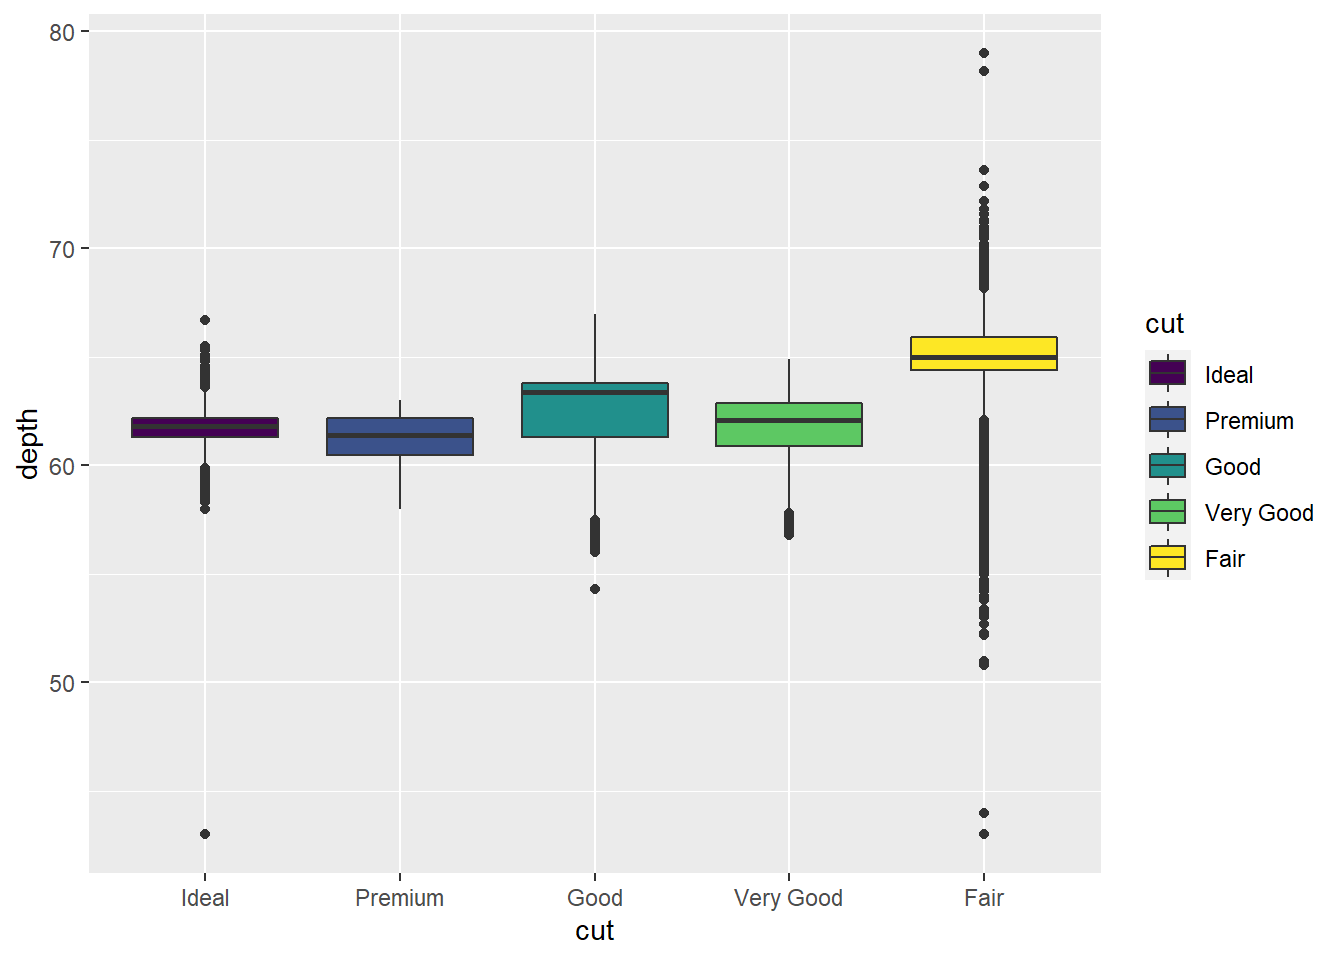
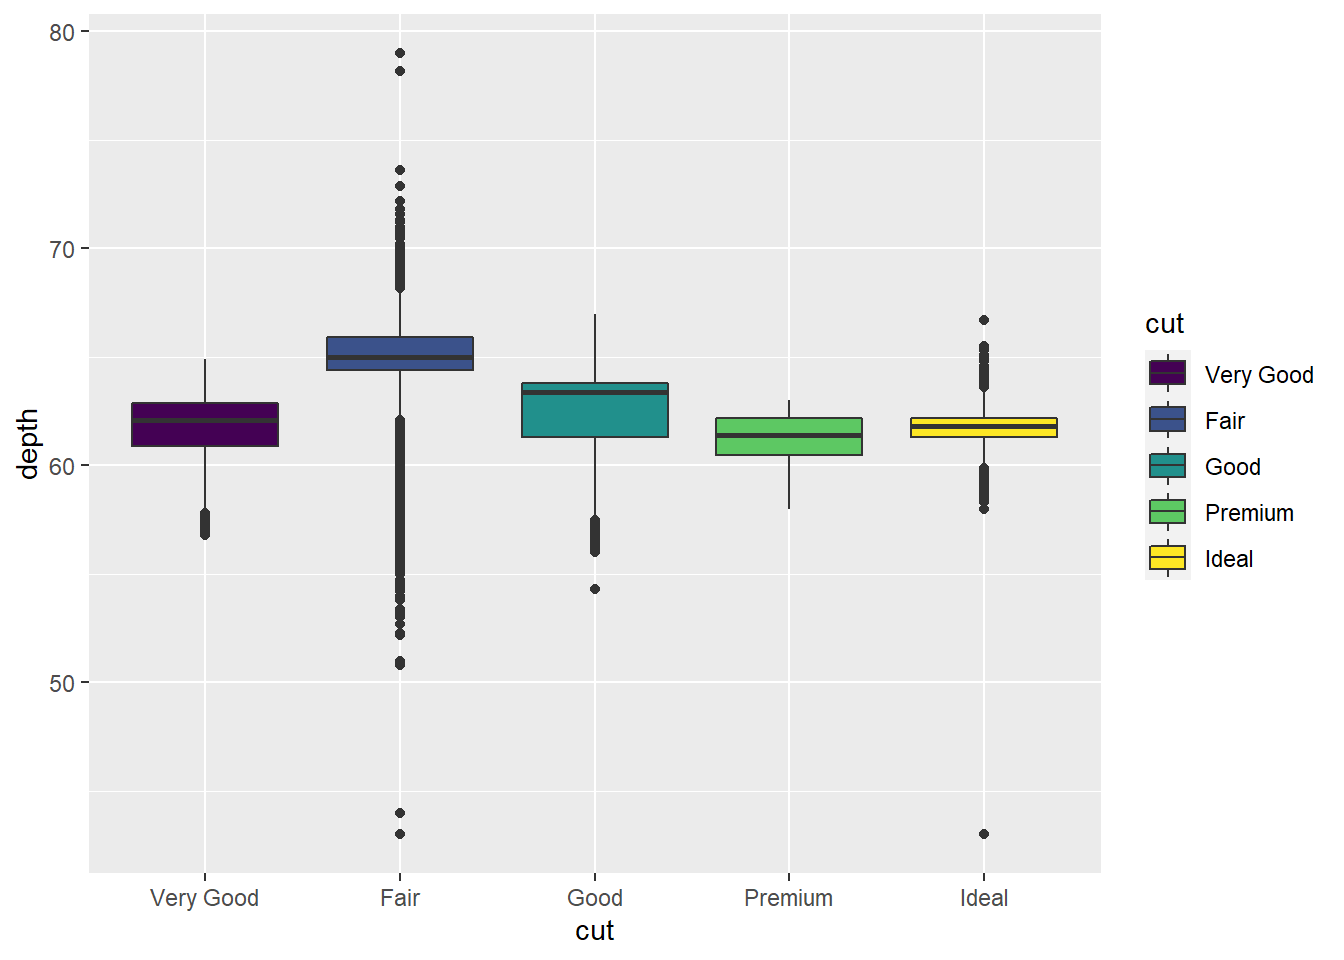
update

diff --git a/content/functions/functions-presentation-ROGASH.html b/content/functions/functions-presentation-ROGASH.html
@@ -58,7 +58,7 @@ data(diamonds)</code></pre>
 <pre class="r"><code>diamonds &lt;- diamonds %&gt;% 
   mutate(cut = fct_shuffle(cut))
 levels(diamonds$cut)</code></pre>
-<pre><code>## [1] &quot;Ideal&quot;     &quot;Premium&quot;   &quot;Good&quot;      &quot;Very Good&quot; &quot;Fair&quot;</code></pre>
+<pre><code>## [1] &quot;Very Good&quot; &quot;Fair&quot;      &quot;Good&quot;      &quot;Premium&quot;   &quot;Ideal&quot;</code></pre>
 <pre class="r"><code>diamonds %&gt;%
  ggplot(aes(x=cut,y=depth,fill=cut)) +
   geom_boxplot()</code></pre>
@@ -69,14 +69,14 @@ levels(diamonds$cut)</code></pre>
 <pre class="r"><code>diamonds &lt;- diamonds %&gt;% 
   mutate(cut = fct_relevel(cut, &quot;Fair&quot;))
 levels(diamonds$cut)</code></pre>
-<pre><code>## [1] &quot;Fair&quot;      &quot;Ideal&quot;     &quot;Premium&quot;   &quot;Good&quot;      &quot;Very Good&quot;</code></pre>
+<pre><code>## [1] &quot;Fair&quot;      &quot;Very Good&quot; &quot;Good&quot;      &quot;Premium&quot;   &quot;Ideal&quot;</code></pre>
 <blockquote>
 <p>If you want to move a value to a different spot, you add in the argument “after” which you set to the integer value of the spot you want the value to be after. If you want the value at the end, but you don’t know how many levels there are, you can use <code>after=Inf</code> (don’t forget the capital ‘I’!).</p>
 </blockquote>
 <pre class="r"><code>diamonds &lt;- diamonds %&gt;% 
   mutate(cut = fct_relevel(cut, &quot;Good&quot;, after=1))
 levels(diamonds$cut)</code></pre>
-<pre><code>## [1] &quot;Fair&quot;      &quot;Good&quot;      &quot;Ideal&quot;     &quot;Premium&quot;   &quot;Very Good&quot;</code></pre>
+<pre><code>## [1] &quot;Fair&quot;      &quot;Good&quot;      &quot;Very Good&quot; &quot;Premium&quot;   &quot;Ideal&quot;</code></pre>
 <blockquote>
 <p>If you want to move multiple values, you can set your second argument to a vector of the elements you want to move.</p>
 </blockquote>
@@ -96,7 +96,7 @@ levels(diamondssort$cut)</code></pre>
 diamondssample &lt;- diamonds %&gt;% 
   mutate(cut = fct_relevel(cut, sample))
 levels(diamondssample$cut)</code></pre>
-<pre><code>## [1] &quot;Fair&quot;      &quot;Premium&quot;   &quot;Ideal&quot;     &quot;Good&quot;      &quot;Very Good&quot;</code></pre>
+<pre><code>## [1] &quot;Very Good&quot; &quot;Premium&quot;   &quot;Good&quot;      &quot;Ideal&quot;     &quot;Fair&quot;</code></pre>
 <pre class="r"><code>#reverses the order
 diamondsrev &lt;- diamonds %&gt;% 
   mutate(cut = fct_relevel(cut, rev))

diff --git a/content/class/09-class.html b/content/class/09-class.html
@@ -9,9 +9,9 @@ output:
 menu:
   class:
     parent: Class sessions
-    weight: 7
+    weight: 9
 type: docs
-weight: 7
+weight: 9
 # pdf: 
 # thumb: 
 editor_options: 
